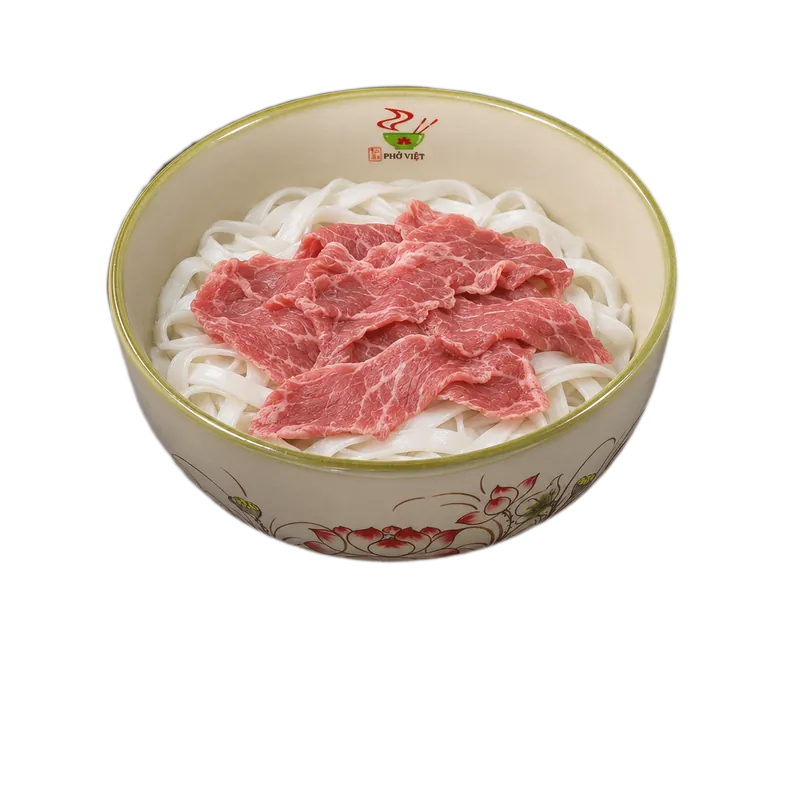
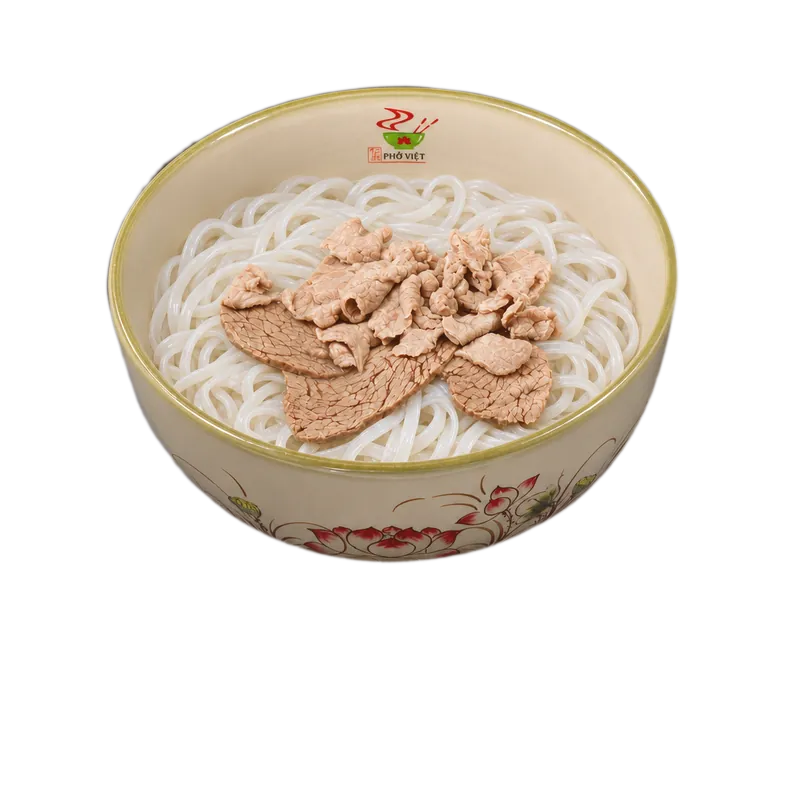
Отварная говядина в сборке Фо Бо, лепестки с ветки, заставка дольше показывает надпись
В Фо Бо кладут сразу отварную говядину: шаги «говядина» и «зелень» — настоящее фото без бульона
и перца (и без зелени), куски в полёте тоже отварные; шаг «Бульон» — «Заливаем горячим бульоном».
В главе 3 лепестки падают и с ветки наверху. Заставка держится, пока PHỞ VIỆT не появится целиком.

diff --git a/public/index.html b/public/index.html
@@ -58,7 +58,7 @@
   <link rel="preconnect" href="https://fonts.googleapis.com">
   <link rel="preconnect" href="https://fonts.gstatic.com" crossorigin>
   <link href="https://fonts.googleapis.com/css2?family=Manrope:wght@400;500;600;700;800&family=Playfair+Display:ital,wght@0,600;0,700;0,800;1,600&family=Unbounded:wght@700;900&display=swap" rel="stylesheet">
-  <link rel="stylesheet" href="styles.css?v=42">
+  <link rel="stylesheet" href="styles.css?v=43">
   <script>
     // При обновлении всегда начинаем с главного экрана, а не с места прошлой прокрутки
     if ("scrollRestoration" in history) history.scrollRestoration = "manual";
@@ -216,12 +216,12 @@
       <div class="asm-glow" aria-hidden="true"></div>
       <div class="asm-copy">
         <p class="chapter-label"><span class="dash"></span>Глава 02 — Как рождается чаша</p>
-        <h2 id="asmTitle" class="sr-only">Как собирается Фо Бо: лапша, говядина, зелень, кипящий бульон, подача</h2>
+        <h2 id="asmTitle" class="sr-only">Как собирается Фо Бо: лапша, отварная говядина, зелень, горячий бульон, подача</h2>
         <ol class="asm-steps">
           <li class="is-active"><span class="asm-n">01</span><span><b>Лапша</b>Свежая рисовая лапша</span></li>
-          <li><span class="asm-n">02</span><span><b>Говядина</b>Тонкие ломтики говядины</span></li>
+          <li><span class="asm-n">02</span><span><b>Говядина</b>Отварная говядина тонкими ломтиками</span></li>
           <li><span class="asm-n">03</span><span><b>Зелень</b>Кинза, зелёный и красный лук</span></li>
-          <li><span class="asm-n">04</span><span><b>Бульон</b>Кипящий бульон заваривает говядину</span></li>
+          <li><span class="asm-n">04</span><span><b>Бульон</b>Заливаем горячим бульоном</span></li>
           <li><span class="asm-n">05</span><span><b>Подача</b>Горячим, с ароматным паром</span></li>
         </ol>
         <div class="asm-progress" aria-hidden="true"><span id="asmBar"></span></div>
@@ -242,8 +242,8 @@
           <div class="asm-steam"><span class="steam s1"></span><span class="steam s2"></span><span class="steam s3"></span></div>
         </div>
         <picture class="fly fly-noodle" data-x="-230" data-y="-190"><source srcset="/scene/bowl/fly-noodle.avif" type="image/avif"><img src="/scene/bowl/fly-noodle.webp" alt="" width="300" height="260" decoding="async" loading="lazy"></picture>
-        <picture class="fly fly-beef" data-x="210" data-y="-200"><source srcset="/scene/bowl/fly-beef.avif" type="image/avif"><img src="/scene/bowl/fly-beef.webp" alt="" width="300" height="202" decoding="async" loading="lazy"></picture>
-        <picture class="fly fly-beef2" data-x="-240" data-y="40"><source srcset="/scene/bowl/fly-beef2.avif" type="image/avif"><img src="/scene/bowl/fly-beef2.webp" alt="" width="300" height="223" decoding="async" loading="lazy"></picture>
+        <picture class="fly fly-beef" data-x="210" data-y="-200"><source srcset="/scene/bowl/fly-beef.avif" type="image/avif"><img src="/scene/bowl/fly-beef.webp" alt="" width="300" height="168" decoding="async" loading="lazy"></picture>
+        <picture class="fly fly-beef2" data-x="-240" data-y="40"><source srcset="/scene/bowl/fly-beef2.avif" type="image/avif"><img src="/scene/bowl/fly-beef2.webp" alt="" width="300" height="181" decoding="async" loading="lazy"></picture>
         <picture class="fly fly-cil" data-x="220" data-y="-210"><source srcset="/scene/bowl/fly-cil.avif" type="image/avif"><img src="/scene/bowl/fly-cil.webp" alt="" width="283" height="300" decoding="async" loading="lazy"></picture>
         <picture class="fly fly-onion" data-x="-230" data-y="-120"><source srcset="/scene/bowl/fly-onion.avif" type="image/avif"><img src="/scene/bowl/fly-onion.webp" alt="" width="300" height="282" decoding="async" loading="lazy"></picture>
       </div>
@@ -349,6 +349,7 @@
           </picture>
         </div>
         <div class="rt-petals" aria-hidden="true"></div>
+        <div class="rt-fall" aria-hidden="true"></div>
       </div>
     </div>
   </section>
@@ -451,12 +452,12 @@
 <script src="https://cdn.jsdelivr.net/npm/gsap@3.12.5/dist/gsap.min.js" defer></script>
 <script src="https://cdn.jsdelivr.net/npm/gsap@3.12.5/dist/ScrollTrigger.min.js" defer></script>
 <script src="https://cdn.jsdelivr.net/npm/lenis@1.1.13/dist/lenis.min.js" defer></script>
-<script src="hours.js?v=42"></script>
-<script src="coupons.js?v=42"></script>
-<script src="menu.js?v=42"></script>
-<script src="common.js?v=42"></script>
-<script src="app.js?v=42"></script>
-<script src="pwa.js?v=42" defer></script>
-<script src="fx.js?v=42" defer></script>
+<script src="hours.js?v=43"></script>
+<script src="coupons.js?v=43"></script>
+<script src="menu.js?v=43"></script>
+<script src="common.js?v=43"></script>
+<script src="app.js?v=43"></script>
+<script src="pwa.js?v=43" defer></script>
+<script src="fx.js?v=43" defer></script>
 </body>
 </html>

diff --git a/public/fx.js b/public/fx.js
@@ -228,7 +228,7 @@
     pause();
     render();
 
-    // лепестки слетают с куста цветов — CSS-анимации, раскладка случайная
+    // лепестки слетают с куста цветов внизу — CSS-анимации, раскладка случайная
     const box = $(".rt-petals");
     if (box && !reduced) {
       const rnd = (a, b) => a + Math.random() * (b - a);
@@ -238,6 +238,15 @@
         h += `<i style="--x:${rnd(2, 30).toFixed(1)}%;--y:${rnd(4, 40).toFixed(1)}%;--dx:${-Math.round(rnd(160, 520))}px;--dy:${Math.round(rnd(-260, 60))}px;--d:${rnd(7, 13).toFixed(1)}s;--dl:${(-rnd(0, 13)).toFixed(1)}s;--s:${rnd(0.7, 1.3).toFixed(2)};--r:${Math.round(rnd(160, 520)) * (i % 2 ? -1 : 1)}deg;--c:${colors[i % colors.length]}"><b></b></i>`;
       }
       box.innerHTML = h;
+      // …и падают с ветки наверху, покачиваясь
+      const fall = $(".rt-fall");
+      if (fall) {
+        let f = "";
+        for (let i = 0, k = touch ? 6 : 10; i < k; i++) {
+          f += `<i style="--x:${rnd(4, 92).toFixed(1)}%;--y:${rnd(0, 80).toFixed(1)}%;--dx:${Math.round(rnd(40, 220))}px;--dy:${Math.round(rnd(320, 620))}px;--d:${rnd(8, 14).toFixed(1)}s;--dl:${(-rnd(0, 14)).toFixed(1)}s;--s:${rnd(0.7, 1.25).toFixed(2)};--r:${Math.round(rnd(200, 600)) * (i % 2 ? -1 : 1)}deg;--c:${colors[(i + 2) % colors.length]}"><b></b></i>`;
+        }
+        fall.innerHTML = f;
+      }
     }
   }
 
@@ -313,13 +322,16 @@
       .to(".lantern", { y: 0, duration: 2, ease: "elastic.out(1, 0.5)", stagger: 0.12 }, 1)
       .to(".hero-ui > :not(.hero-copy-wrap)", { opacity: 1, duration: 1, stagger: 0.08 }, 1.3);
   };
-  // Заставка ждёт не шрифты, а картинку неба: она лёгкая и качается первой (preload в <head>), поэтому
-  // на медленном интернете сцена открывается на 1–2 секунды раньше. Буквы PHỞ поднимаются, когда загрузится
-  // их шрифт (не дольше 2.5 с), — иначе мелькнул бы запасной шрифт.
+  // Заставка ждёт картинку неба (она лёгкая и качается первой, preload в <head>) и надпись PHỞ VIỆT: буквы
+  // поднимаются, когда загрузился их шрифт (не дольше 1,2 с — иначе мелькнул бы запасной), и стоят целиком,
+  // пока их можно прочитать, — только потом луна уходит на небо. Буквы PHỞ на первом экране поднимаются,
+  // когда загрузится их шрифт (не дольше 2,5 с).
   const ready = document.fonts ? document.fonts.ready : Promise.resolve();
   const wait = ms => new Promise(r => setTimeout(r, ms));
-  // буквы на заставке появляются, когда загрузился их шрифт
-  Promise.race([ready, wait(1500)]).then(() => { const l = $("#loader"); if (l) l.classList.add("has-font"); });
+  const wordFont = document.fonts && document.fonts.load ? document.fonts.load('900 21px "Unbounded"').catch(() => {}) : Promise.resolve();
+  const wordShown = Promise.race([wordFont, wait(1200)])
+    .then(() => { const l = $("#loader"); if (l) l.classList.add("has-font"); })
+    .then(() => wait(2000)); // буквы встают по одной (~1,3 с) и ещё около секунды стоят целиком
   const skyReady = new Promise(resolve => {
     const m = /url\("?([^")]+)"?\)/.exec(getComputedStyle($(".sky")).backgroundImage || "");
     if (!m) return resolve();
@@ -327,7 +339,7 @@
     img.onload = img.onerror = resolve;
     img.src = m[1];
   });
-  const sceneShown = Promise.race([skyReady, wait(1500)]).then(() => wait(150)).then(intro);
+  const sceneShown = Promise.all([Promise.race([skyReady, wait(1500)]), wordShown]).then(() => wait(150)).then(intro);
   Promise.all([sceneShown, Promise.race([ready, wait(2500)])])
     .then(() => gsap.to(letters, { y: 0, opacity: 1, duration: 1.6, stagger: 0.12, ease: "expo.out", delay: 0.5 }));
 
@@ -425,7 +437,7 @@
       fly(".fly-beef", 3.5); fly(".fly-beef2", 3.7); show(2, 4.3); bump(4.6);
       // 03 — зелень
       fly(".fly-cil", 5.5); fly(".fly-onion", 5.7); show(3, 6.2); bump(6.6);
-      // 04 — бульон: кипящий бульон заваривает говядину — сырое мясо сменяется настоящим фото, поднимается пар
+      // 04 — бульон: чашу заливают горячим бульоном — проявляется настоящее фото, поднимается пар
       show(4, 8.3, 1.3); bump(9.1);
       tl.fromTo(".asm-steam", { opacity: 0 }, { opacity: 1, duration: 0.8 }, 8.9);
       // 05 — подача: включается видео с паром, чаша чуть приближается

diff --git a/public/styles.css b/public/styles.css
@@ -635,7 +635,12 @@ body.has-pointer .cursor-glow { opacity: 1; }
 .rt-petals i { position: absolute; right: var(--x); bottom: var(--y); width: 12px; height: 8px; opacity: 0; animation: rtPetal var(--d) linear var(--dl) infinite; will-change: transform, opacity; }
 .rt-petals b { display: block; width: 100%; height: 100%; border-radius: 80% 0 80% 0; background: var(--c); scale: var(--s); animation: petalFlutter 1.4s ease-in-out var(--dl) infinite alternate; }
 @keyframes rtPetal { 0% { transform: translate3d(0, 0, 0) rotate(0deg); opacity: 0; } 12% { opacity: .95; } 80% { opacity: .85; } 100% { transform: translate3d(var(--dx), var(--dy), 0) rotate(var(--r)); opacity: 0; } }
-.ritual:not(.is-near) .rt-petals i, .ritual:not(.is-near) .rt-petals b, .ritual:not(.is-near) .rt-glow { animation-play-state: paused; }
+/* …и падают с ветки наверху, покачиваясь (fx.js раскладывает их вдоль ветки) */
+.rt-fall { position: absolute; z-index: 7; left: -6%; top: -4%; width: 36%; height: 16%; pointer-events: none; }
+.rt-fall i { position: absolute; left: var(--x); top: var(--y); width: 12px; height: 8px; opacity: 0; animation: rtPetal var(--d) linear var(--dl) infinite; will-change: transform, opacity; }
+.rt-fall b { display: block; width: 100%; height: 100%; border-radius: 80% 0 80% 0; background: var(--c); scale: var(--s); animation: petalFlutter 1.4s ease-in-out var(--dl) infinite alternate, rtSway 2.6s ease-in-out var(--dl) infinite alternate; }
+@keyframes rtSway { from { translate: -14px 0; } to { translate: 14px 0; } }
+.ritual:not(.is-near) :is(.rt-petals, .rt-fall) :is(i, b), .ritual:not(.is-near) .rt-glow { animation-play-state: paused; }
 .ritual.is-near .rt-branch, .ritual.is-near .rt-bloom, .ritual.is-near .rt-moon { will-change: transform; }
 @media (max-width: 1100px) {
   .rt-head { flex-direction: column; align-items: flex-start; }
@@ -668,6 +673,7 @@ body.has-pointer .cursor-glow { opacity: 1; }
   .rt-branch { left: -16%; top: -3%; width: 66%; }
   .rt-bloom { right: -8%; bottom: -10%; width: 36%; }
   .rt-petals { width: 100%; height: 70%; }
+  .rt-fall { left: -10%; top: -2%; width: 60%; height: 10%; }
 }
 /* Пар над чашей (глава 2) */
 .steam {

diff --git a/public/menu.html b/public/menu.html
@@ -40,7 +40,7 @@
   <link rel="preconnect" href="https://fonts.googleapis.com">
   <link rel="preconnect" href="https://fonts.gstatic.com" crossorigin>
   <link href="https://fonts.googleapis.com/css2?family=Manrope:wght@400;500;600;700;800&family=Playfair+Display:ital,wght@0,600;0,700;0,800;1,600&family=Unbounded:wght@700;900&display=swap" rel="stylesheet">
-  <link rel="stylesheet" href="styles.css?v=42">
+  <link rel="stylesheet" href="styles.css?v=43">
 </head>
 <body class="page-menu app-page" data-page="menu">
 <div class="splash" id="splash" aria-hidden="true">
@@ -259,12 +259,12 @@ document.title={app:"Phở Việt — приложение",promo:"Акции и
   <b id="mobileTotal">0 ₽</b>
 </button>
 
-<script src="hours.js?v=42"></script>
-<script src="coupons.js?v=42"></script>
-<script src="menu.js?v=42"></script>
-<script src="common.js?v=42"></script>
-<script src="app.js?v=42"></script>
-<script src="appshell.js?v=42"></script>
-<script src="pwa.js?v=42" defer></script>
+<script src="hours.js?v=43"></script>
+<script src="coupons.js?v=43"></script>
+<script src="menu.js?v=43"></script>
+<script src="common.js?v=43"></script>
+<script src="app.js?v=43"></script>
+<script src="appshell.js?v=43"></script>
+<script src="pwa.js?v=43" defer></script>
 </body>
 </html>

diff --git a/public/sw.js b/public/sw.js
@@ -1,9 +1,9 @@
 /* Service worker: приложение открывается быстро и работает при плохом интернете.
    При изменении файлов сайта увеличьте VERSION, чтобы у всех обновился кэш. */
-const VERSION = "pv-v42";
+const VERSION = "pv-v43";
 const SHELL = [
   "/", "/menu",
-  "/styles.css?v=42", "/app.js?v=42", "/menu.js?v=42", "/common.js?v=42", "/hours.js?v=42", "/coupons.js?v=42", "/appshell.js?v=42", "/fx.js?v=42", "/pwa.js?v=42",
+  "/styles.css?v=43", "/app.js?v=43", "/menu.js?v=43", "/common.js?v=43", "/hours.js?v=43", "/coupons.js?v=43", "/appshell.js?v=43", "/fx.js?v=43", "/pwa.js?v=43",
   "/icons/logo-176.png", "/manifest.webmanifest",
   "/icons/icon-192.png", "/icons/apple-touch-icon.png"
 ];

diff --git a/public/jobs.html b/public/jobs.html
@@ -11,7 +11,7 @@
   <link rel="preconnect" href="https://fonts.googleapis.com">
   <link rel="preconnect" href="https://fonts.gstatic.com" crossorigin>
   <link href="https://fonts.googleapis.com/css2?family=Manrope:wght@400;500;600;700;800&display=swap" rel="stylesheet">
-  <link rel="stylesheet" href="styles.css?v=42">
+  <link rel="stylesheet" href="styles.css?v=43">
 </head>
 <body class="legal-page jobs-page">
   <header class="legal-head">
@@ -71,8 +71,8 @@
     </div>
   </main>
 
-  <script src="menu.js?v=42"></script>
-  <script src="common.js?v=42"></script>
-  <script src="jobs.js?v=42"></script>
+  <script src="menu.js?v=43"></script>
+  <script src="common.js?v=43"></script>
+  <script src="jobs.js?v=43"></script>
 </body>
 </html>

diff --git a/public/consent-job.html b/public/consent-job.html
@@ -10,7 +10,7 @@
   <link rel="preconnect" href="https://fonts.googleapis.com">
   <link rel="preconnect" href="https://fonts.gstatic.com" crossorigin>
   <link href="https://fonts.googleapis.com/css2?family=Manrope:wght@400;500;600;700;800&display=swap" rel="stylesheet">
-  <link rel="stylesheet" href="styles.css?v=42">
+  <link rel="stylesheet" href="styles.css?v=43">
 </head>
 <body class="legal-page">
   <header class="legal-head">

diff --git a/public/consent.html b/public/consent.html
@@ -10,7 +10,7 @@
   <link rel="preconnect" href="https://fonts.googleapis.com">
   <link rel="preconnect" href="https://fonts.gstatic.com" crossorigin>
   <link href="https://fonts.googleapis.com/css2?family=Manrope:wght@400;500;600;700;800&display=swap" rel="stylesheet">
-  <link rel="stylesheet" href="styles.css?v=42">
+  <link rel="stylesheet" href="styles.css?v=43">
 </head>
 <body class="legal-page">
   <header class="legal-head">

diff --git a/public/privacy.html b/public/privacy.html
@@ -10,7 +10,7 @@
   <link rel="preconnect" href="https://fonts.googleapis.com">
   <link rel="preconnect" href="https://fonts.gstatic.com" crossorigin>
   <link href="https://fonts.googleapis.com/css2?family=Manrope:wght@400;500;600;700;800&display=swap" rel="stylesheet">
-  <link rel="stylesheet" href="styles.css?v=42">
+  <link rel="stylesheet" href="styles.css?v=43">
 </head>
 <body class="legal-page">
   <header class="legal-head">
